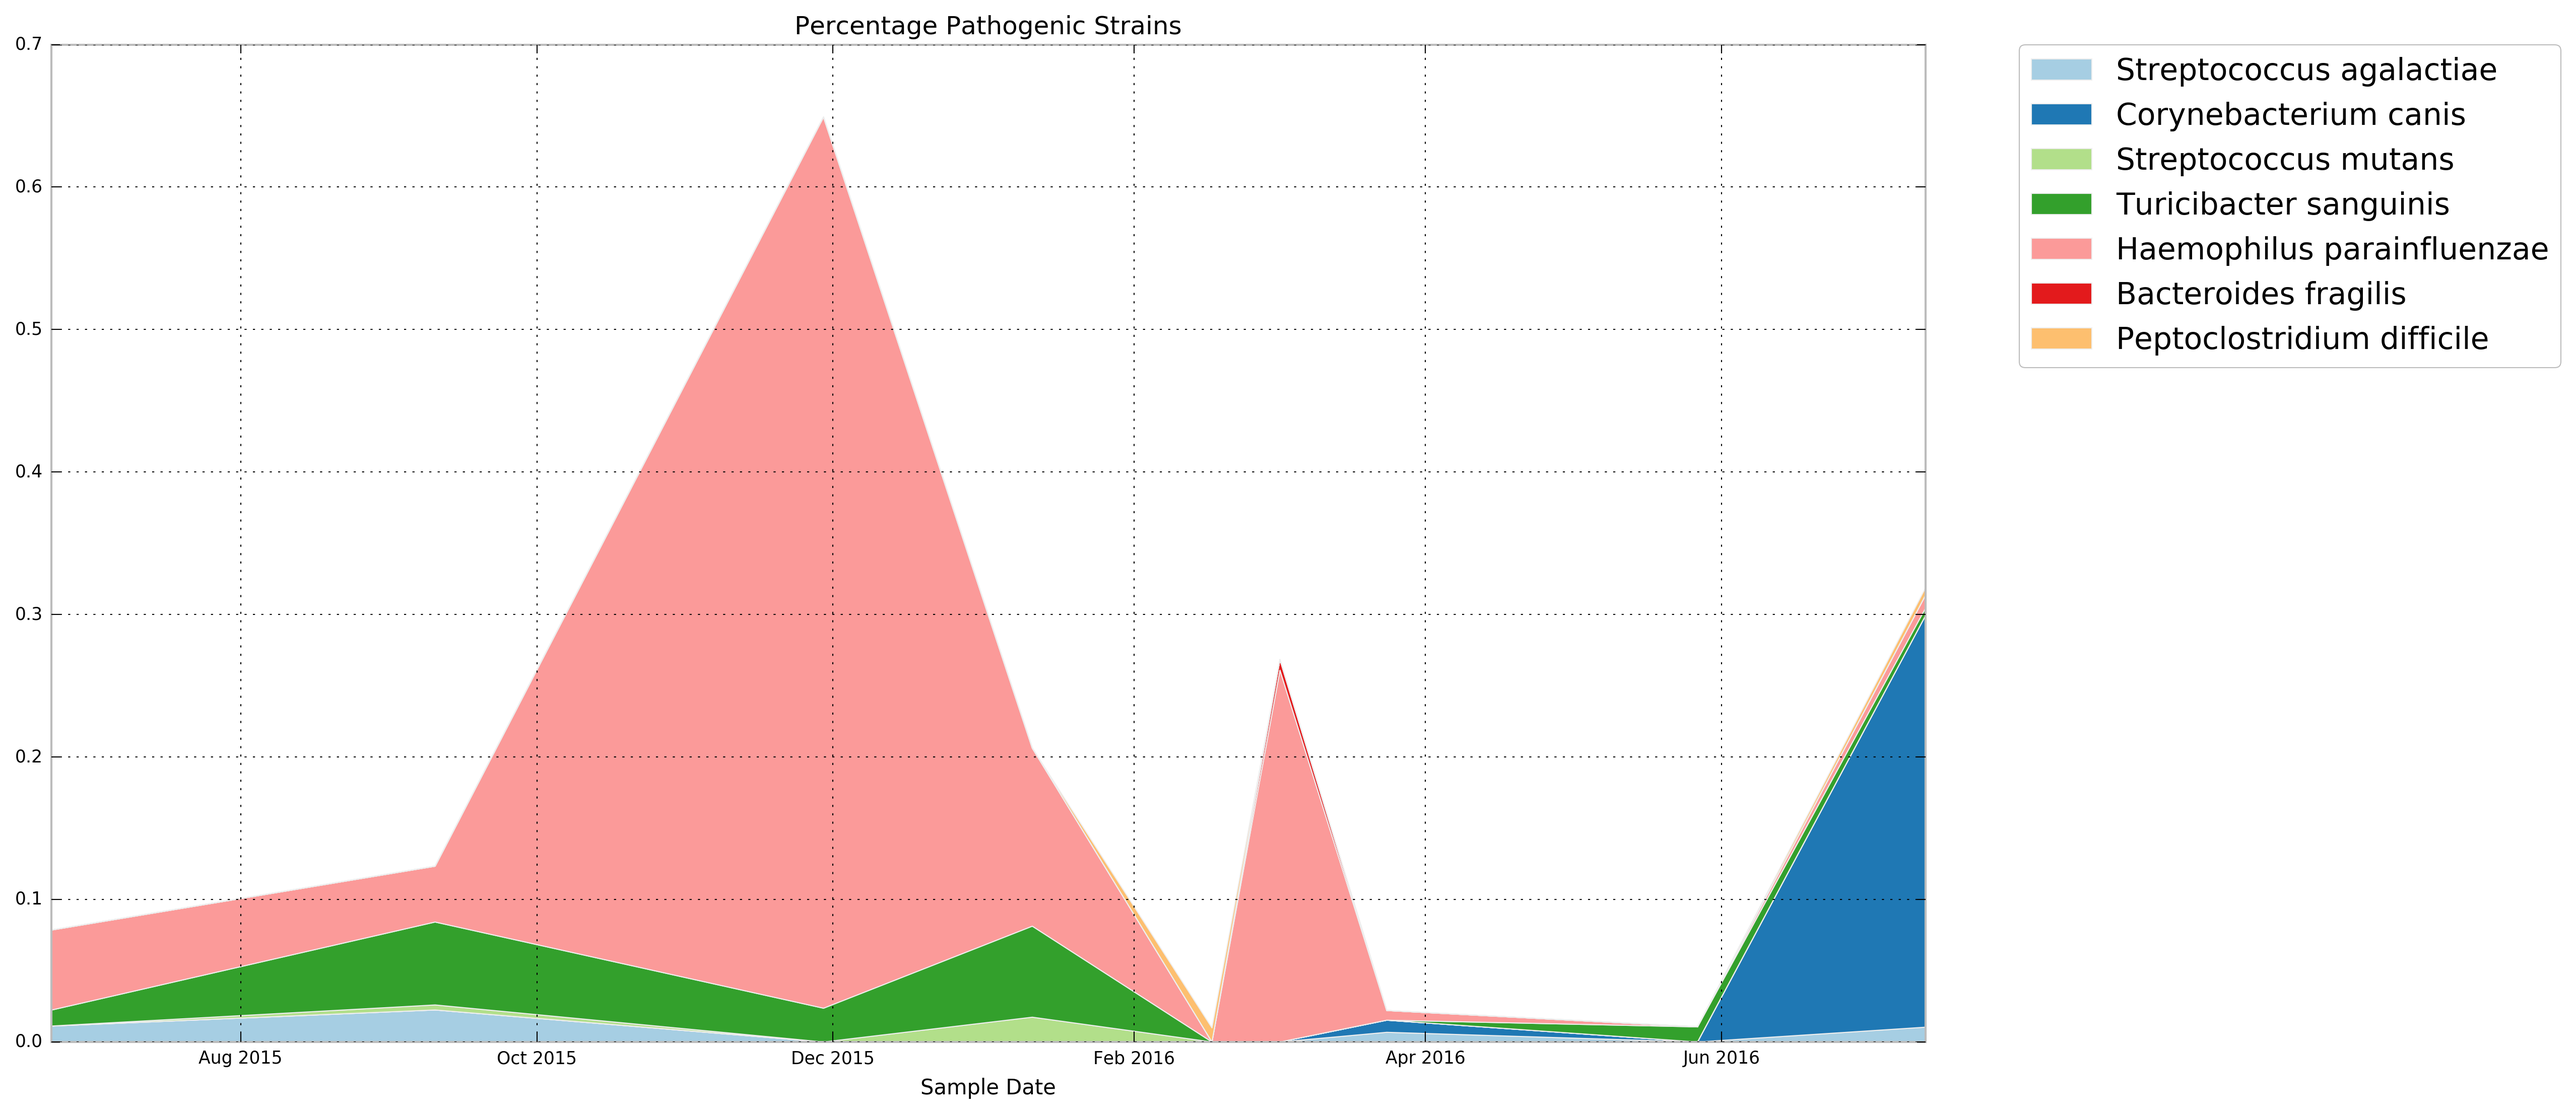
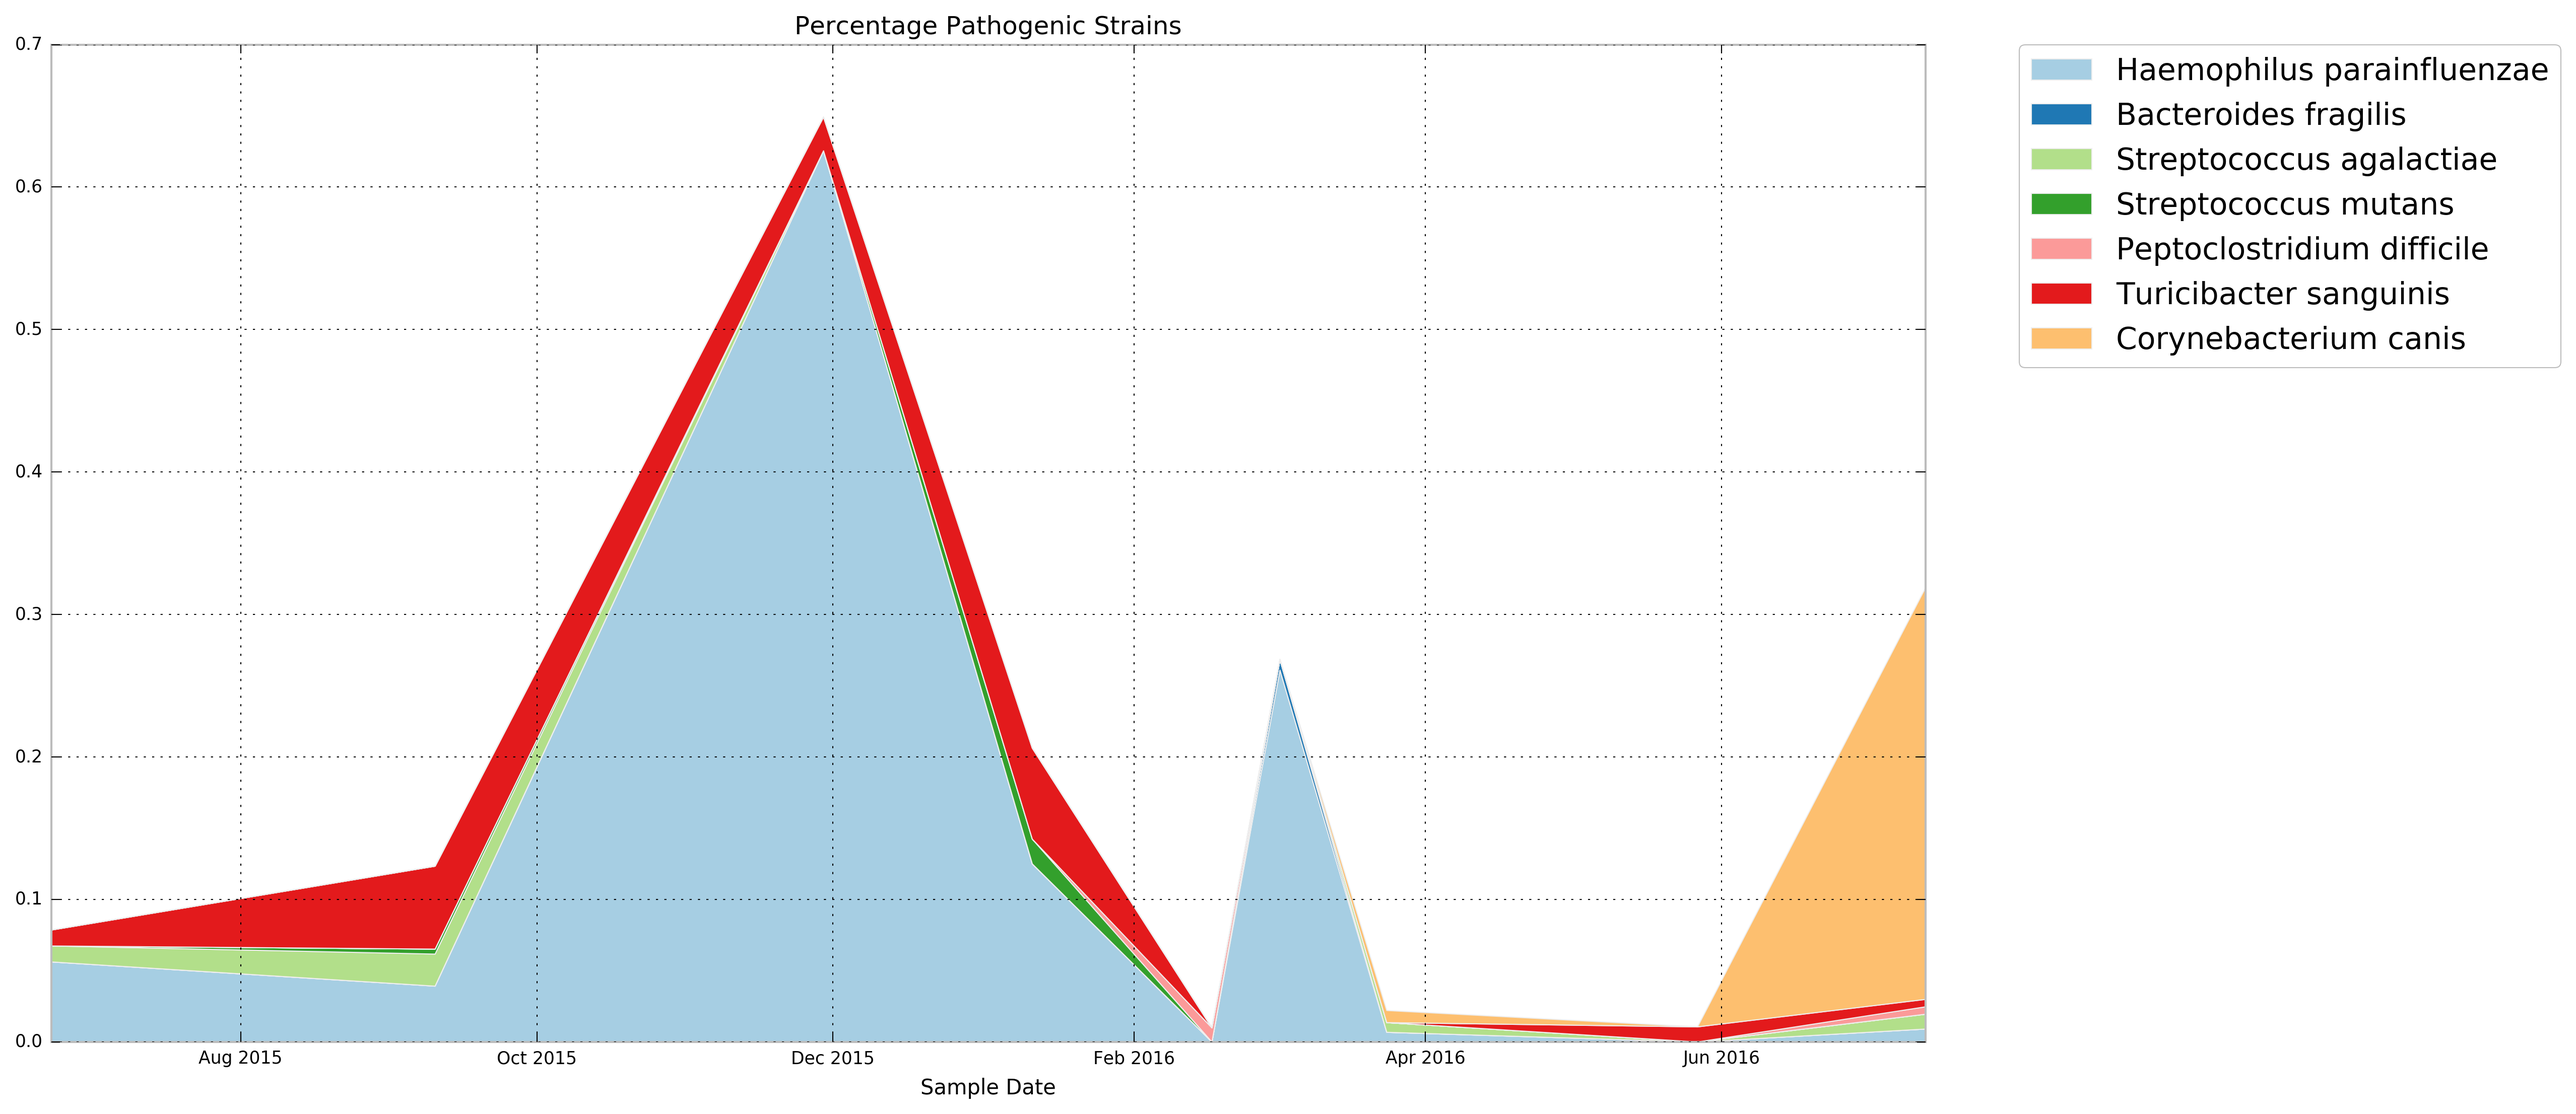
added family similarity compared to median

Changed region(s): [[0.0, 0.1248, 0.7463, 0.9358], [0.8085, 0.0312, 0.9951, 0.3119]]

diff --git a/code/main.py b/code/main.py
@@ -340,6 +340,22 @@ def stackplotTest():
     plt.xlabel('Date')
     plt.savefig(os.path.join(baseDir, 'family percent of sample - stacked.png'))        
             
+    # Similarity among all samples
+    numSamples = len(rr)
+    ref = np.median(r, axis=1)
+    mat = np.zeros((numSamples, ))
+    for k in range(numSamples):
+        #mat[k,kk] = np.mean((r[:,k] - r[:,kk])**2)
+        mat[k] = np.corrcoef(ref, r[:,k])[1,0]
+    plt.clf()
+    plt.stackplot(rr, r)
+    plt.legend(family, bbox_to_anchor=(1.05, 1), loc=2, borderaxespad=0.)
+    plt.ylim([0,100])
+    plt.title('Family Percent of Sample, Stacked')
+    plt.ylabel('Percent of Sample')
+    plt.xlabel('Date')
+    plt.savefig(os.path.join(baseDir, 'family percent of sample - stacked.png'))     
+            
     # Pull all species
     species = []
     for f in fn:
